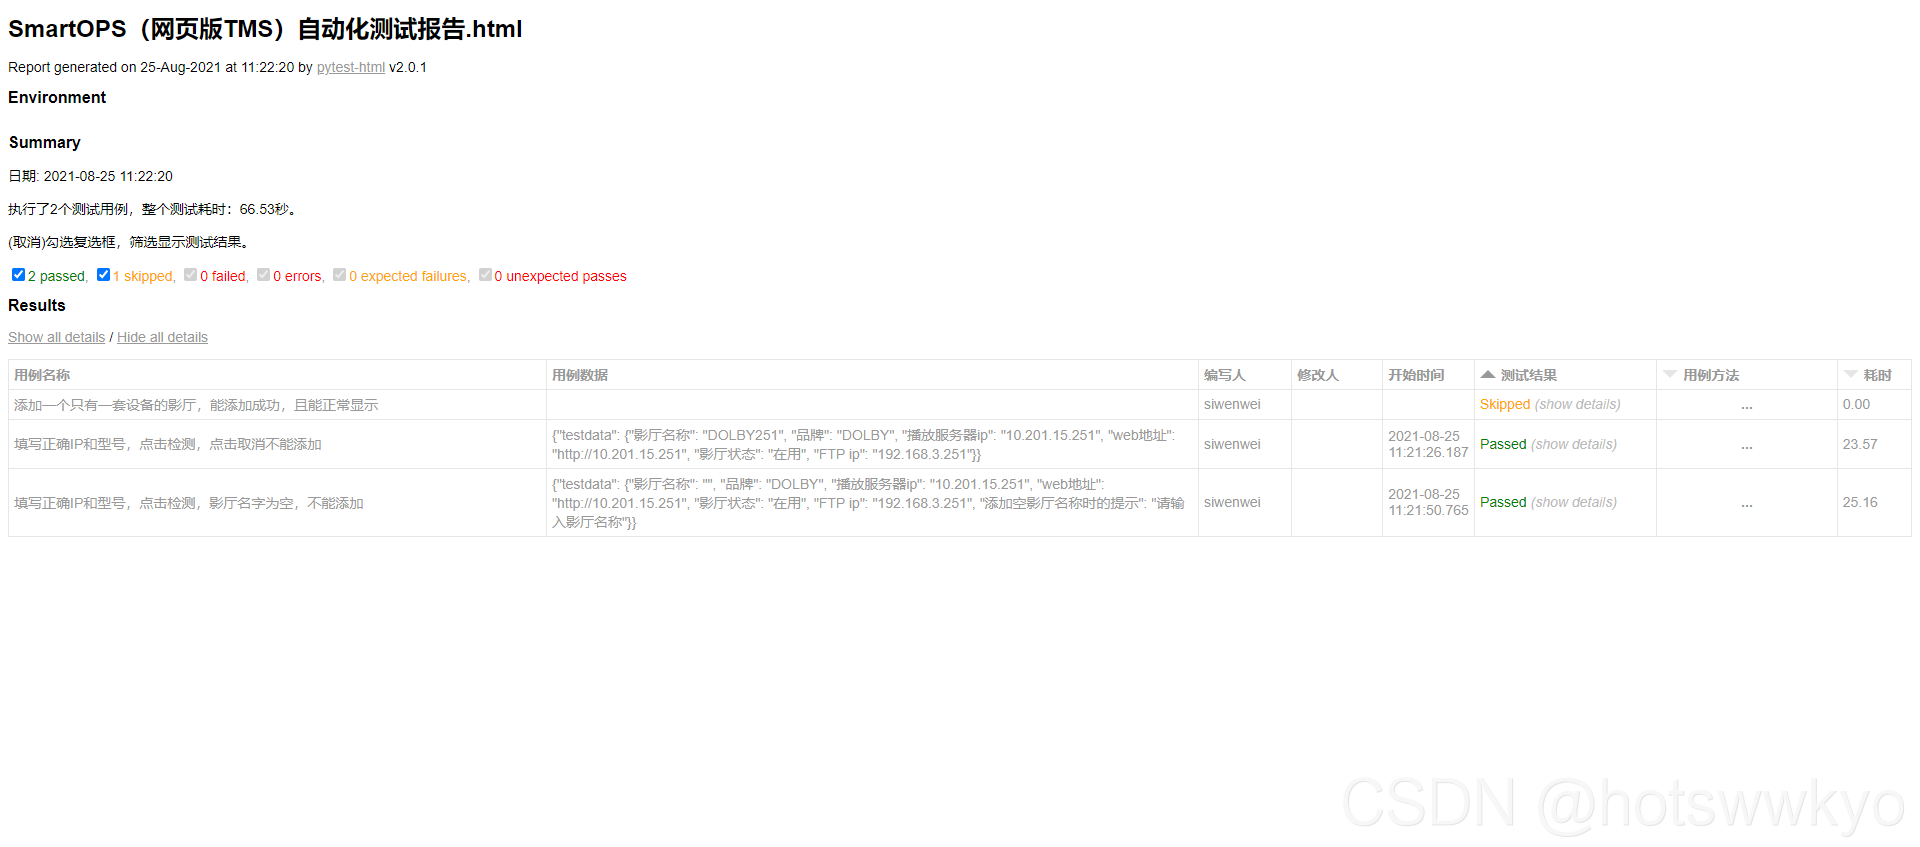
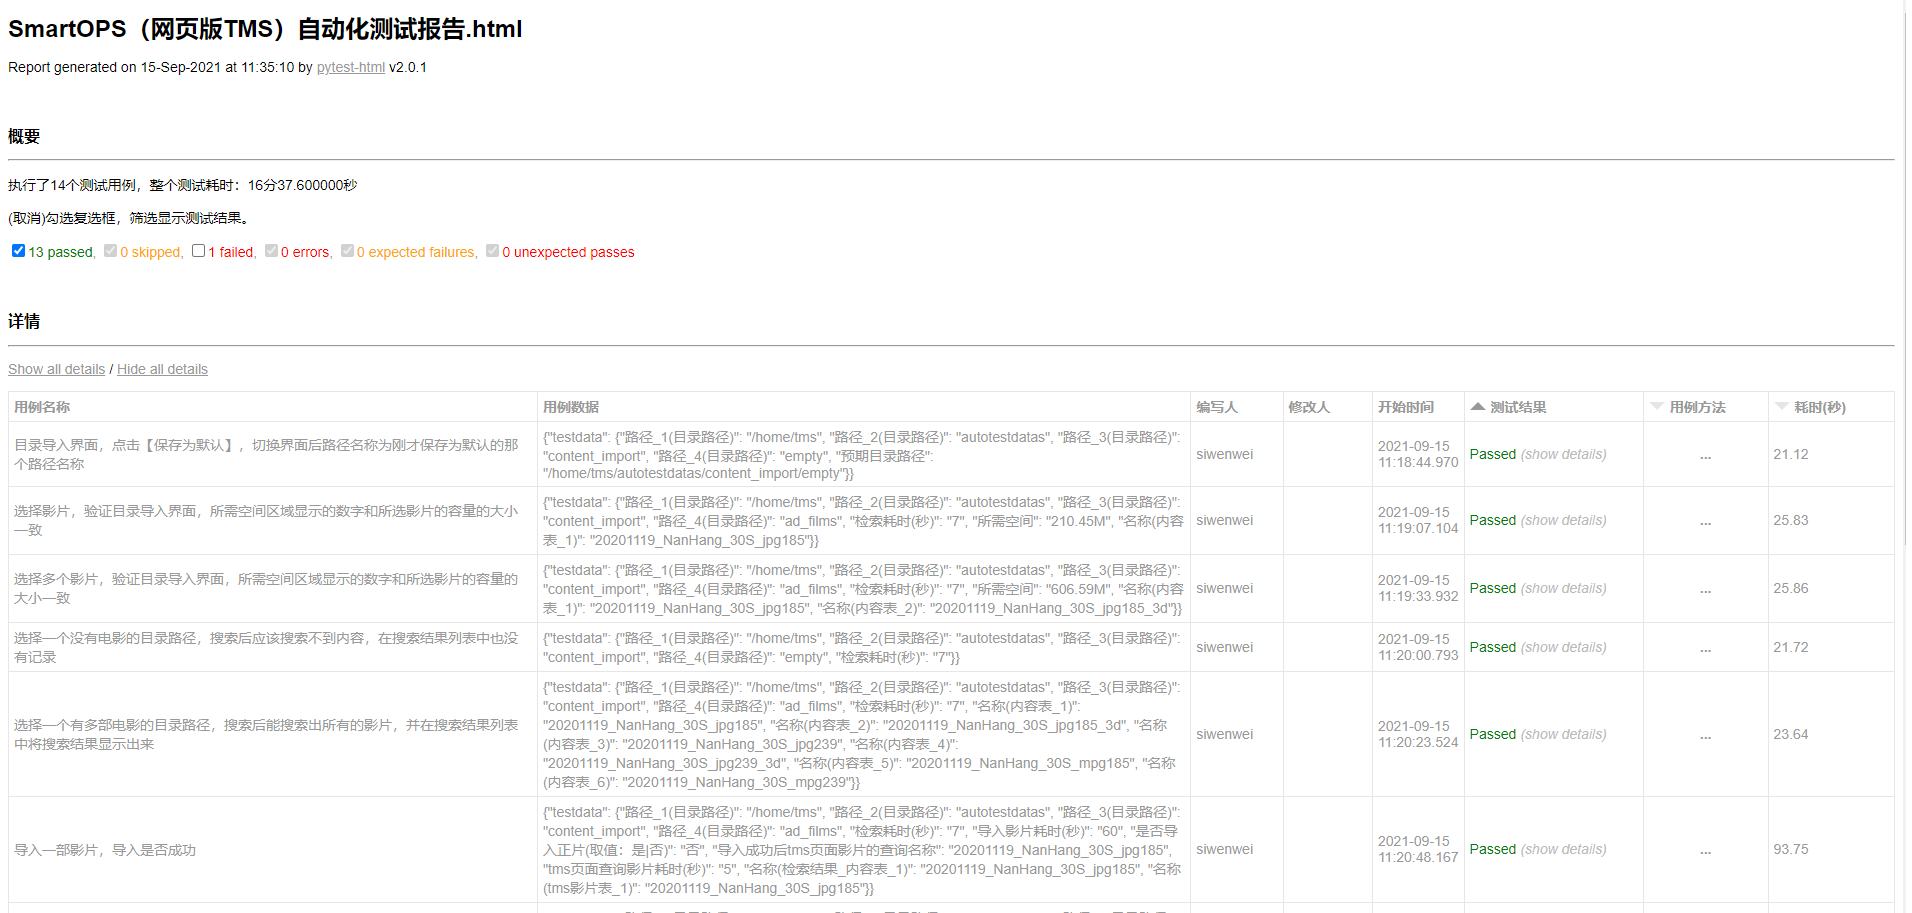
汉化html报告和更换效果图

diff --git a/conftest.py b/conftest.py
@@ -68,9 +68,72 @@ def pytest_html_results_table_header(cells):
 @pytest.mark.optionalhook
 def pytest_html_results_summary(prefix, summary, postfix):
 
-    style_css = 'table tr:hover {background-color: #f0f8ff;}'
+    style_css = 'table tr:hover {background-color: #f0f8ff;};'
+    js = """
+        function append(targentElement, newElement) {
+            var parent = targentElement.parentNode;
+            if (parent.lastChild == targentElement) {
+                parent.appendChild(newElement);
+            } else {
+                parent.insertBefore(newElement, targentElement.nextSibling);
+            }
+        }
+        function prettify_h2(){
+            var h2list = document.getElementsByTagName("h2");
+            var cnmaps = [['Environment', '环境'], ['Summary', '概要'], ['Results', '详情']];
+            var env = cnmaps[0][0];
+            var is_del_env_area = true;
+            var env_indexs = [];
+            for(var i=0;i<h2list.length;i++){
+                var h2 = h2list[i];
+                if(env == h2.innerText){
+                    env_indexs.push(i);
+                    if(!is_del_env_area){
+                        append(h2, document.createElement('hr'));
+                    }
+                }else{
+                    for(var s=0;s<cnmaps.length;s++){
+                        var onemap = cnmaps[s];
+                        if(h2.innerText == onemap[0]){
+                            append(h2, document.createElement('hr'));
+                            break;
+                        }
+                    }
+                }
+                h2.style.marginTop = "50px";
+                for(var j=0;j<cnmaps.length;j++){
+                    var one = cnmaps[j];
+                    if(h2.innerText == one[0]){
+                        h2.innerText = one[1];
+                        break;
+                    }
+                }
+            }
+            if(!is_del_env_area){
+                return;
+            }
+            for(var k=0;k<env_indexs.length;k++){
+                var index = env_indexs[k];
+                var h2 = h2list[index];
+                var el_env = document.getElementById('environment');
+                h2.parentNode.removeChild(h2);
+                if(el_env){
+                    el_env.parentNode.removeChild(el_env);
+                }
+            }
+        }
+        var event_func = document.body.onload;
+        document.body.onload = function(){return false;};
+        if (window.attachEvent) {
+            window.attachEvent("onload", event_func);
+            window.attachEvent("onload", prettify_h2);
+        } else if (window.addEventListener) {
+            window.addEventListener("load", event_func, false);
+            window.addEventListener("load",prettify_h2, false);
+        }
+    """
     prefix.extend([html.style(raw(style_css))])
-    prefix.extend([html.p("日期: {}".format(datetime.now().strftime("%Y-%m-%d %H:%M:%S")))])
+    prefix.extend([html.script(raw(js))])
     for item in summary:
         if not item:
             continue
